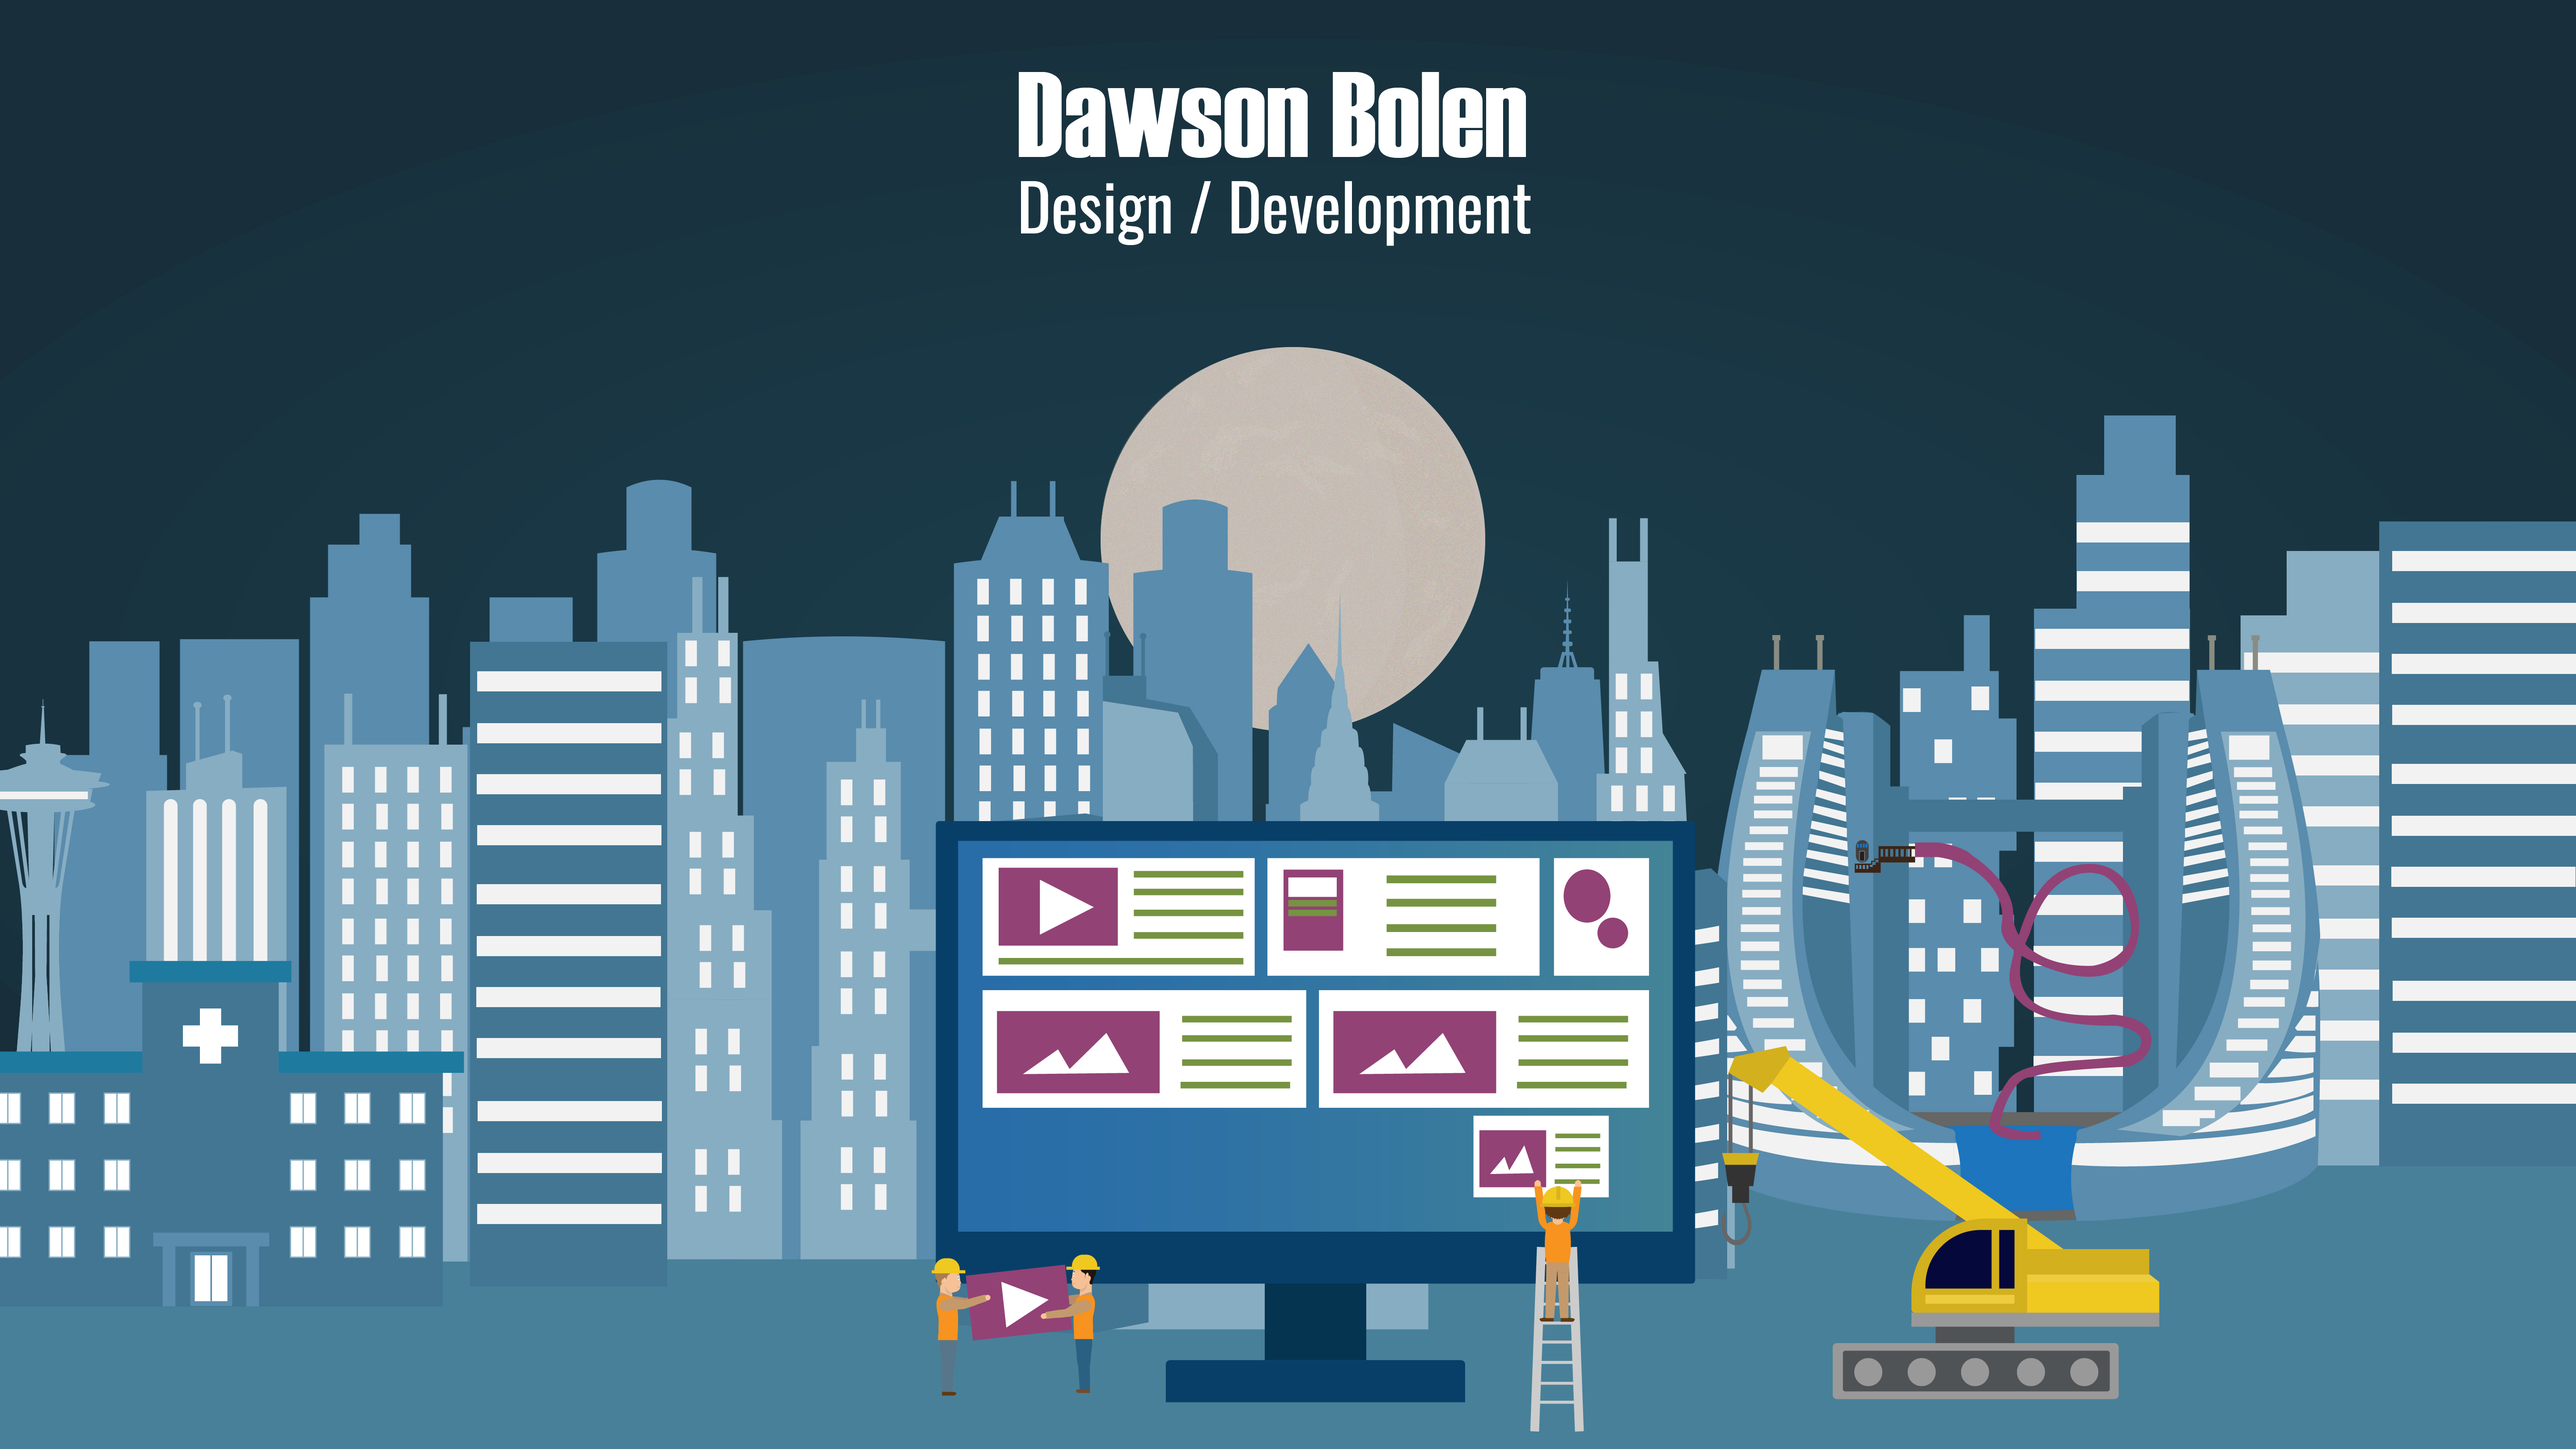
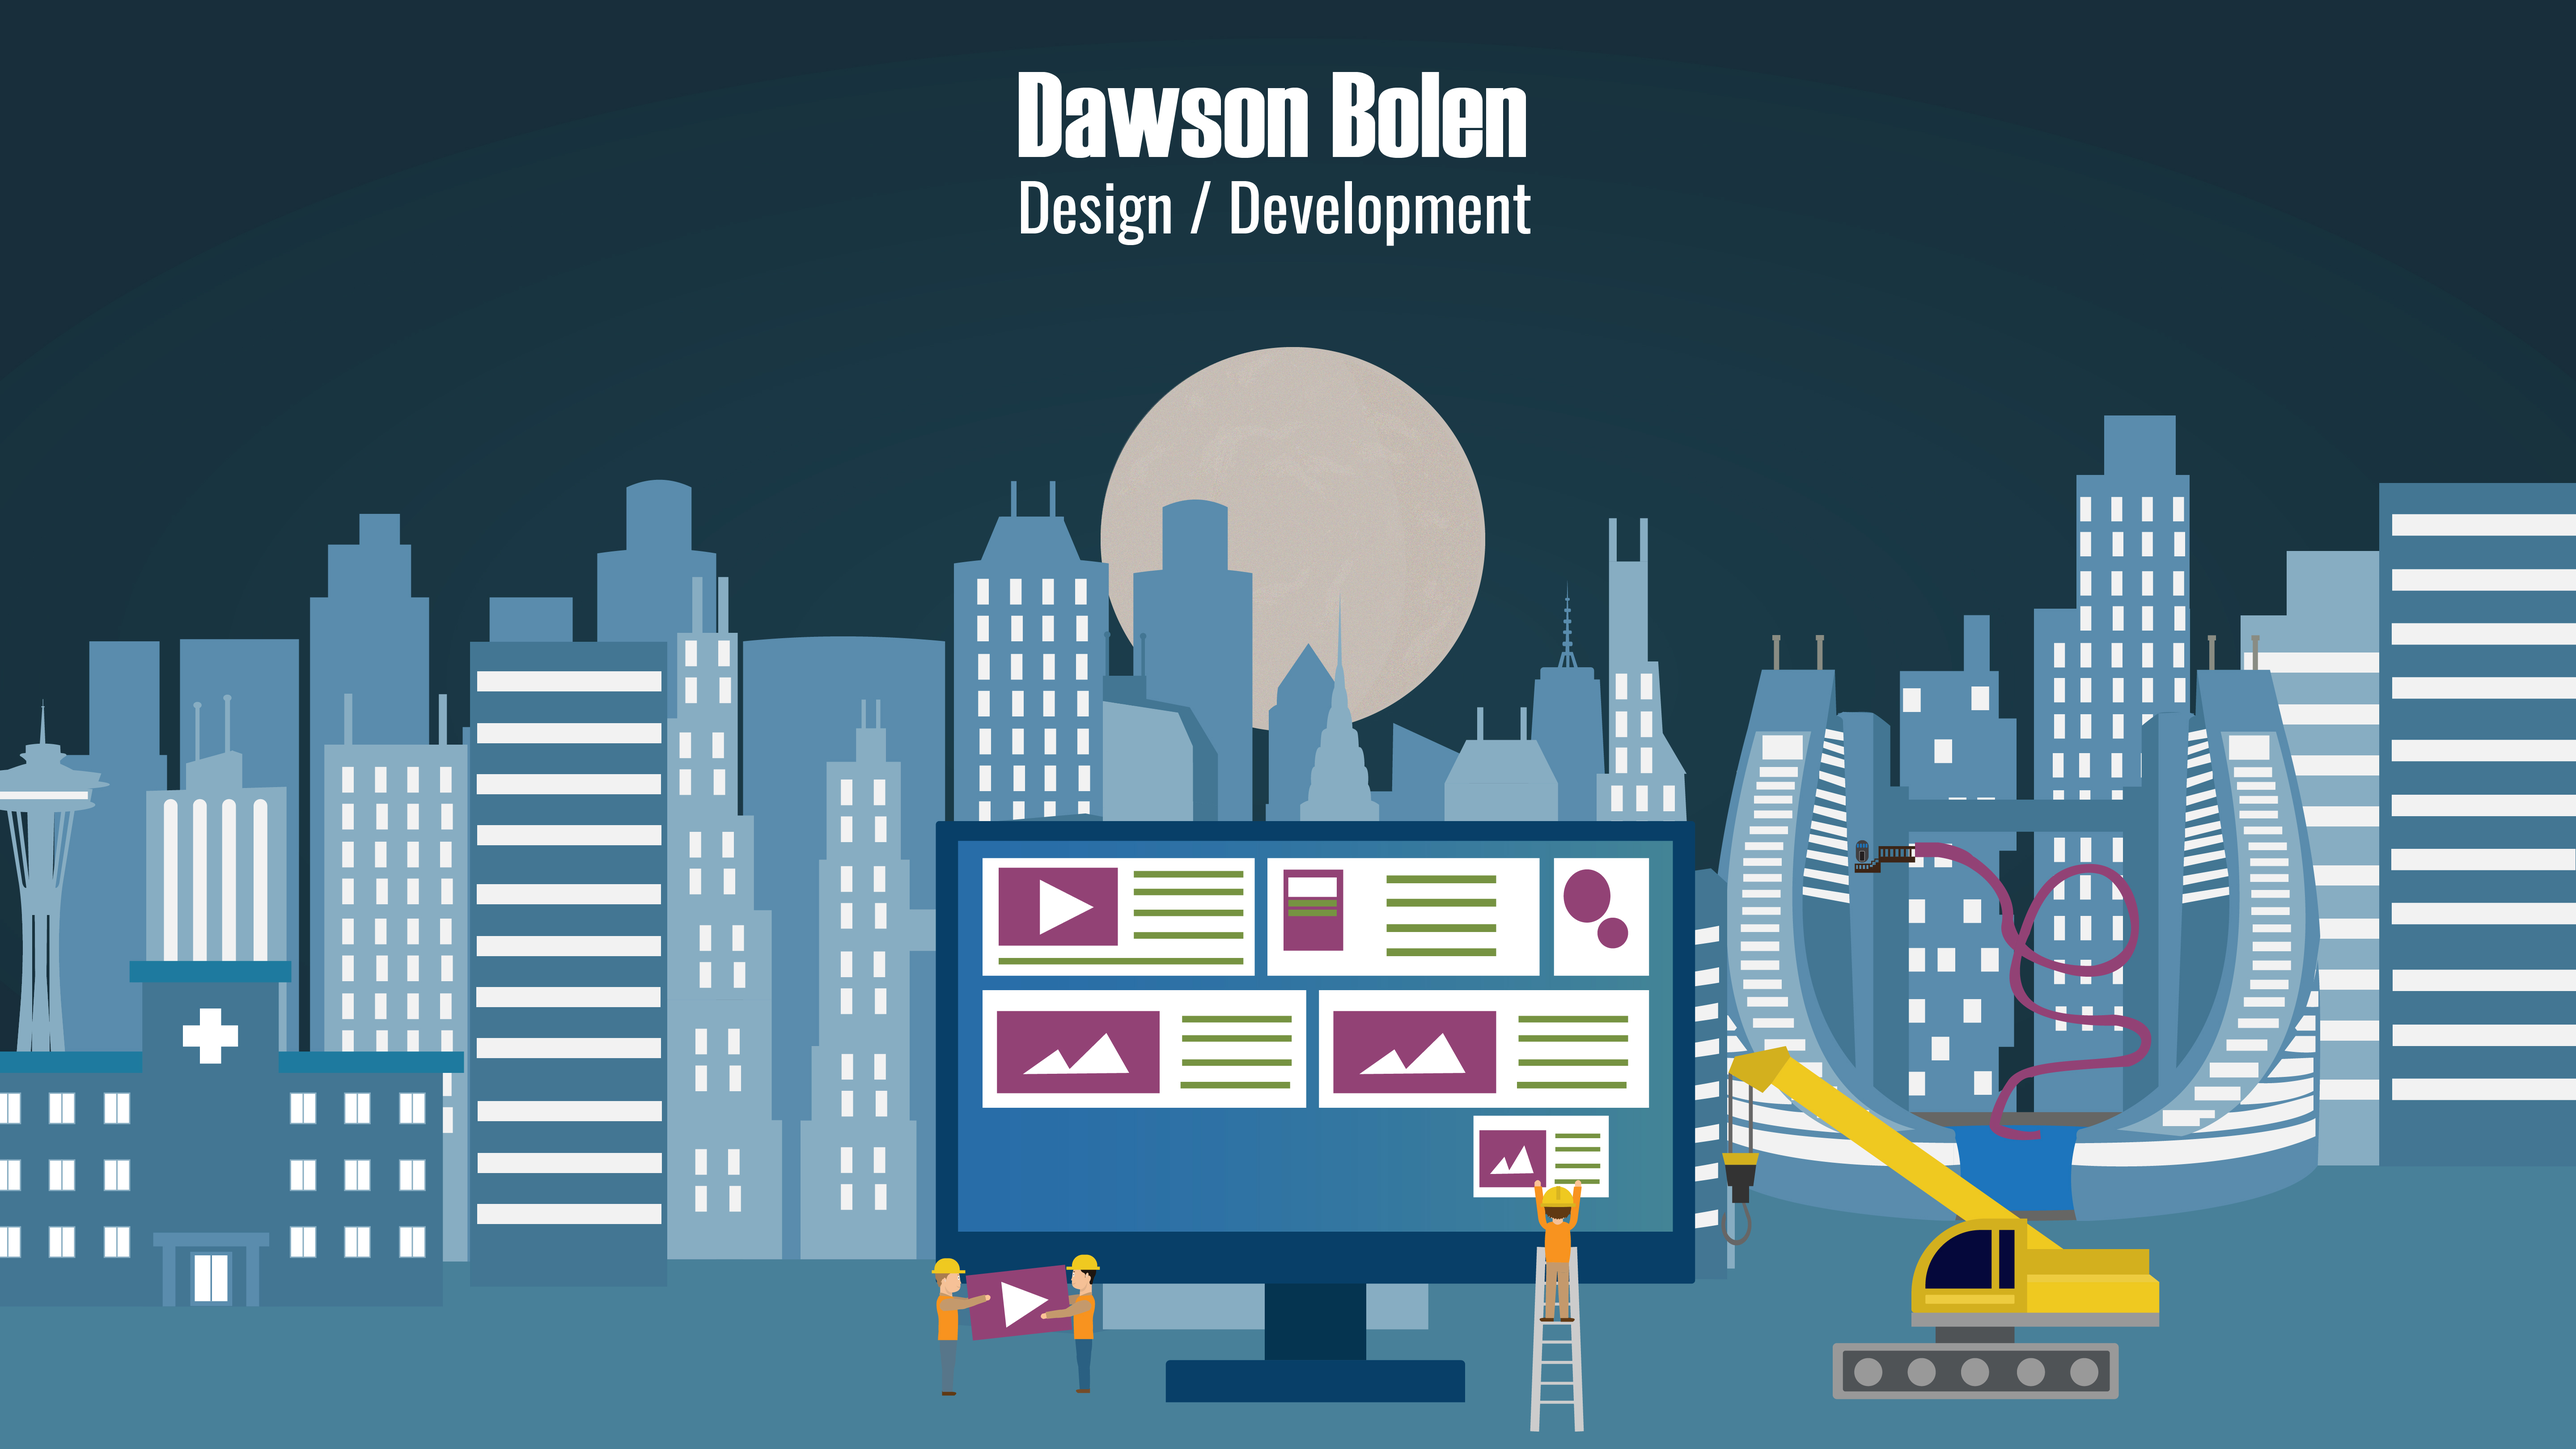
small imperfection on homepage graphic that I fixed. Additionally, fixed a description that was wrong

Changed region(s): [[0.9062, 0.3117, 1.0, 0.7481], [0.7812, 0.3429, 0.875, 0.7481], [0.4062, 0.8728, 0.4688, 0.9352]]

diff --git a/src/projectData.js b/src/projectData.js
@@ -181,7 +181,7 @@ export const designProjects = [
     {
         id: 6,
         title: 'Book Cover 2',
-        description: "For one of my graphic design classes, we had to create a color theory diagram that explained the relationships between the different hues on the color wheel as well as explain tint, shade, saturation, temperature, and complementary colors. We also had to incorporate real images that we photographed. I chose to use famous skyscrapers because it made the diagram more interesting and cool to look at.",
+        description: "This was my second book cover design. I chose to do lord of the flies because I think it's a great book, and there is lots of symbolism in the book too work with. I finished this one a lot faster than my other one yet I ended up liking the way this one turned out a bit more than the first one. This was done entirely in Illustrator and In design. ",
         image: '/project-images/Lordofthefliesweb.jpg'
     }
 ]

diff --git a/src/components/skills.js b/src/components/skills.js
@@ -9,8 +9,7 @@ function Skills({ handlePageChange, currentPage }) {
                 <div className="card">
                     <img src={process.env.PUBLIC_URL + "/images/Webdevicon.png"} width="44px" height="34px" alt="desktop computer icon"></img>
                     <h3>Web Development</h3>
-                    <p>I am experienced in web design and development. I am proficient in HTML CSS and JavaScript. I'm skilled in
-                        Node.js, Express.js, React.js, some sql, MongoDB, and some PHP.</p>
+                    <p>I am experienced in web design and development. I am proficient in HTML CSS, JavaScript, Node, Express, React, sql, MongoDB, graphQL, some PHP, and several other skills listed on my about page.</p>
 
                     <a
                         href="#WebDev"
